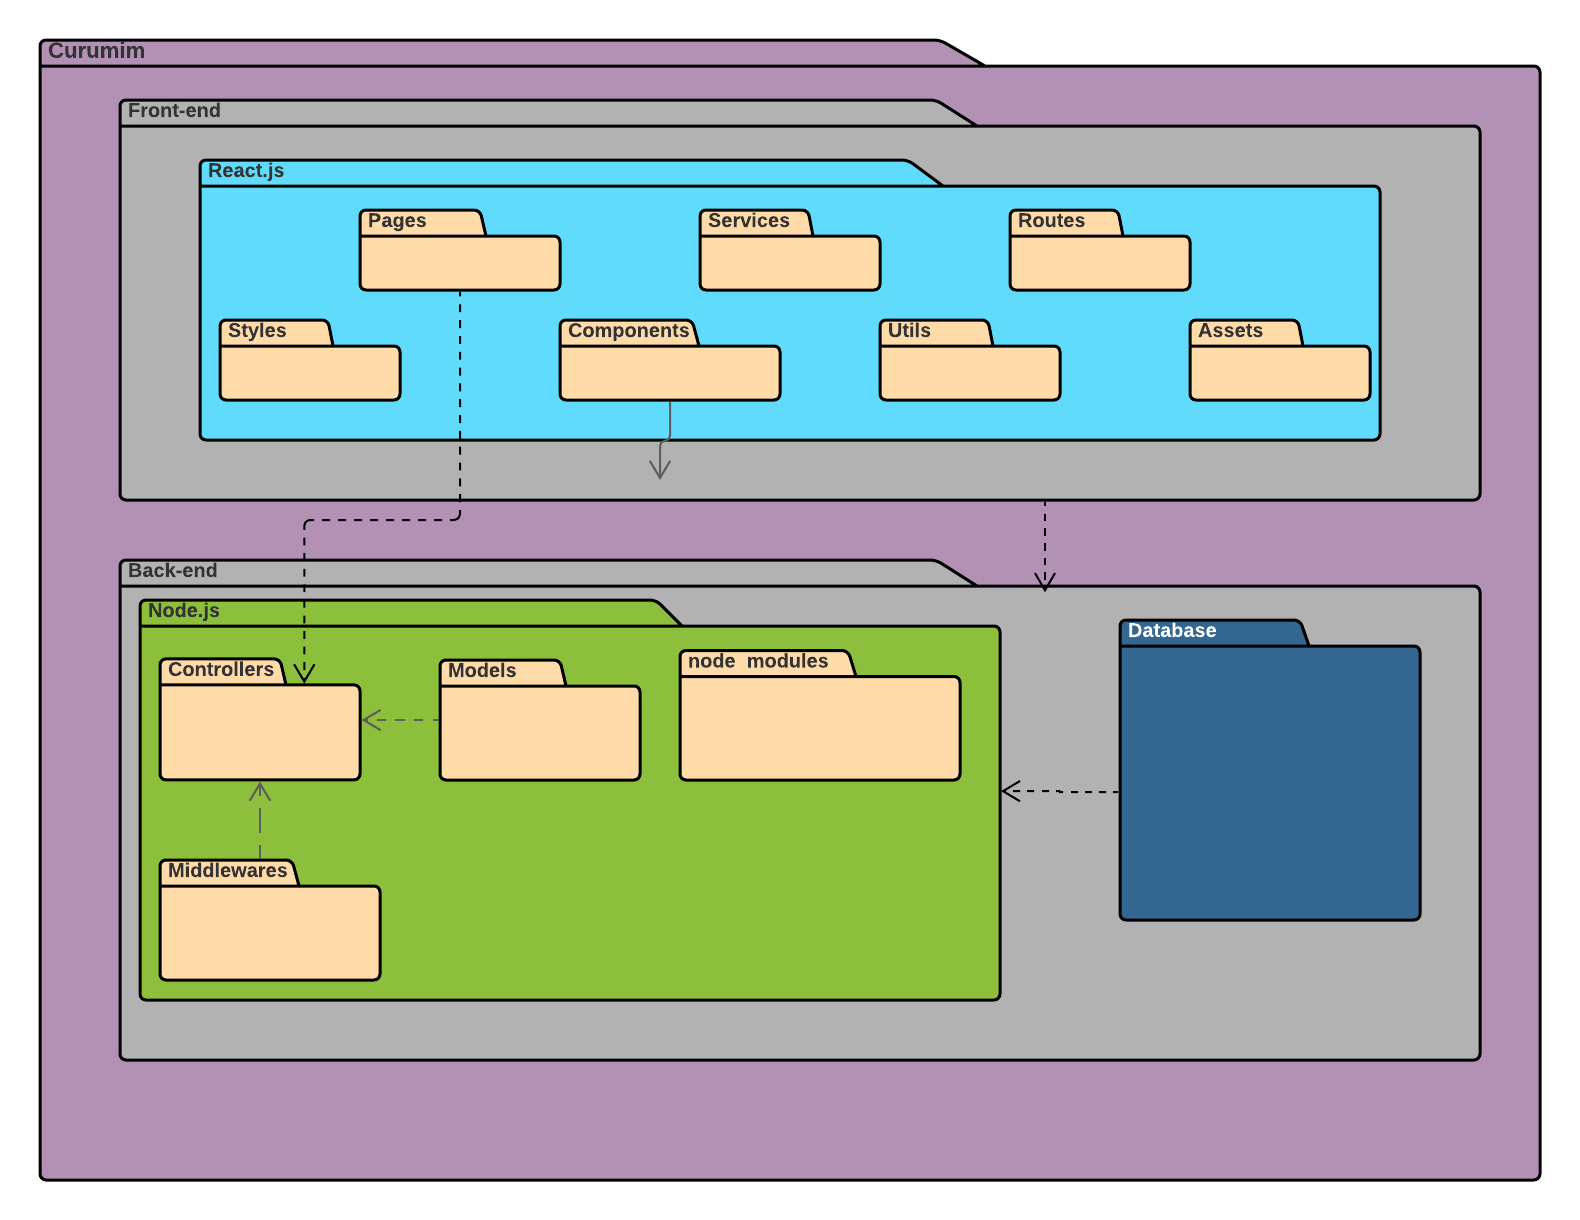
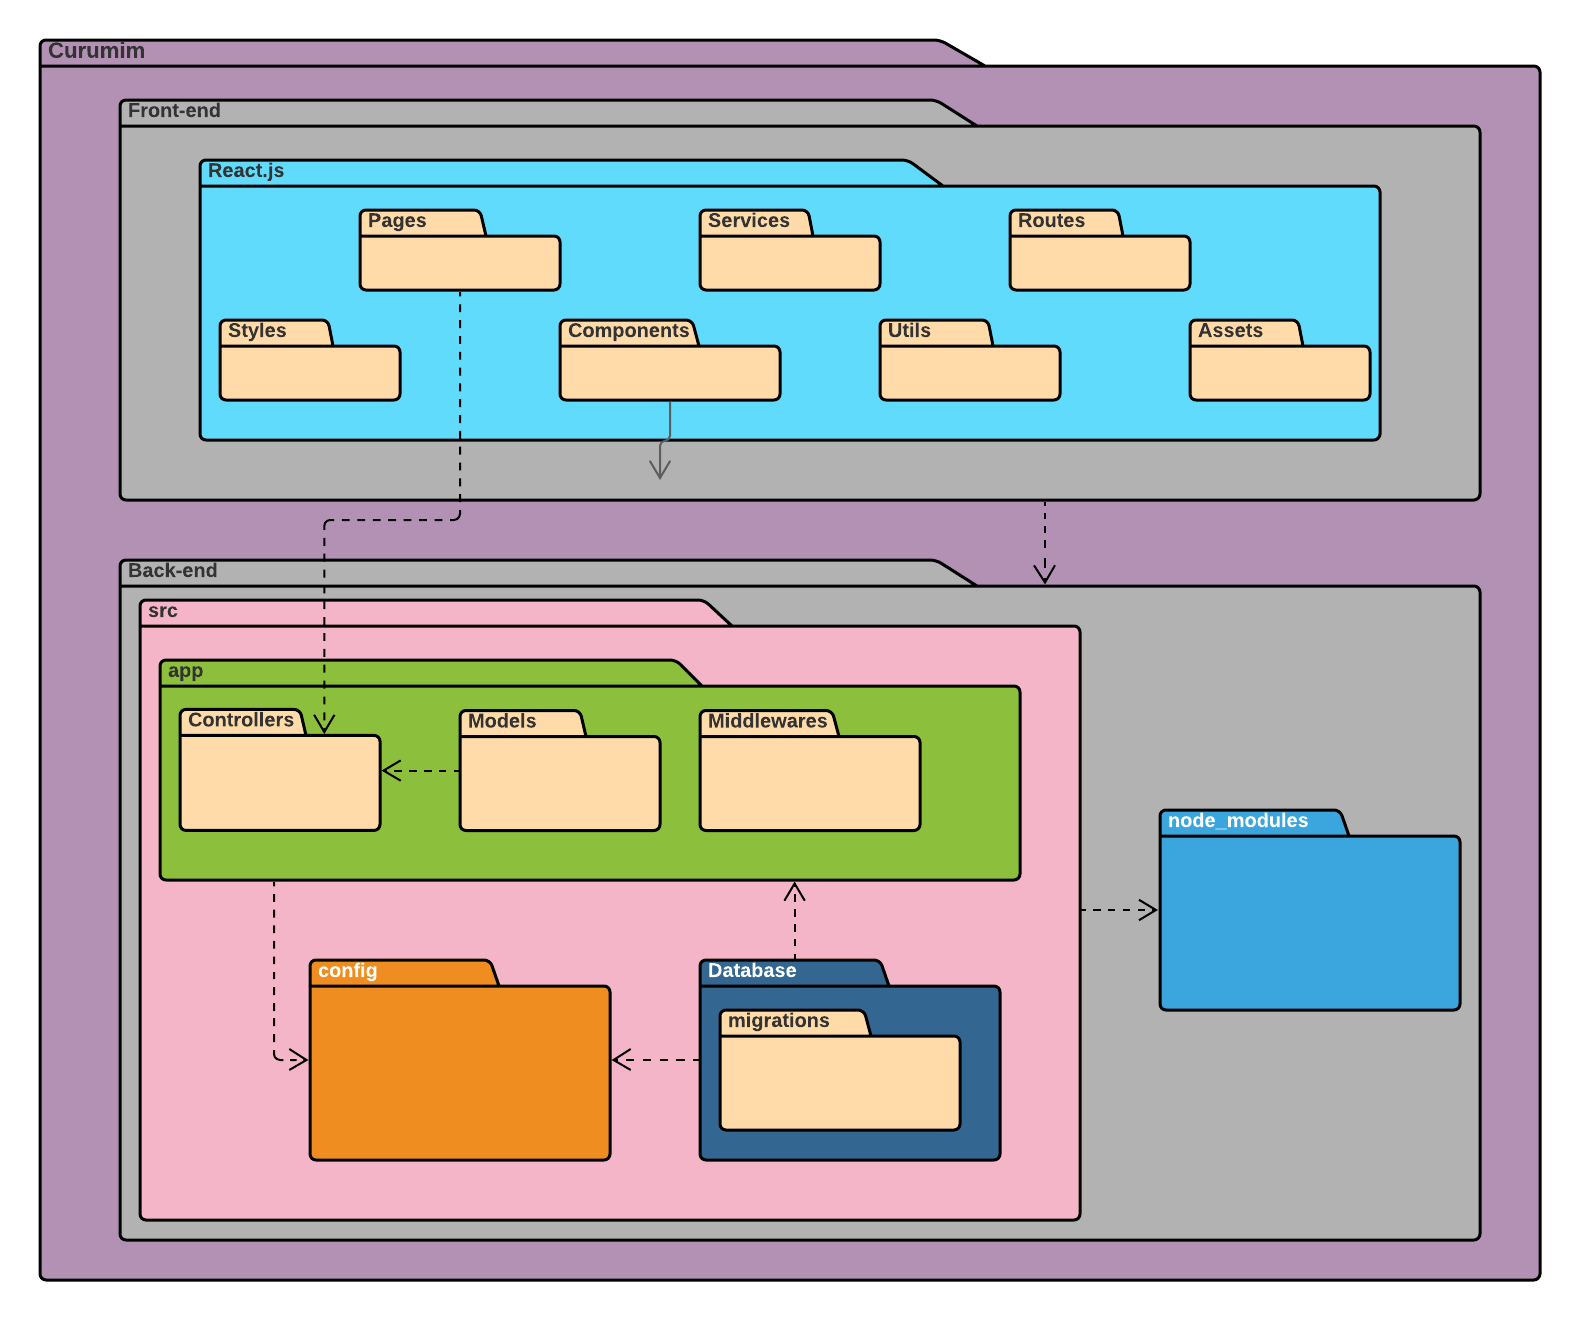
feat(#147) revisão diagrama de pacotes back-end

diff --git a/docs/modelagem/modelagem-estatica/diagrama-de-pacotes.md b/docs/modelagem/modelagem-estatica/diagrama-de-pacotes.md
@@ -14,7 +14,7 @@
 
 ![Diagrama de pacotes](../../assets/imagens/diagrama-de-pacotes/Diagrama-de-pacotes.png)
 
-<center>[Figura 1: Diagrama de pacotes 1.0](../../assets/imagens/diagrama-de-pacotes/Diagrama-de-pacotes.png)</center>
+<center>[Figura 2: Diagrama de pacotes 1.0](../../assets/imagens/diagrama-de-pacotes/Diagrama-de-pacotes.png)</center>
 
 
 ## Bibliografia
@@ -31,3 +31,4 @@ https://www.lucidchart.com/pages/pt/diagrama-de-pacotes-uml. Acesso em: 12/08/20
 |1.2| 21/08/2021 | Revisão por pares | Daniel Porto, Edson Soares|
 |1.3| 08/09/2021 | Atualizando pacotes do front-end no diagrama | João Pedro, Enzo Gabriel |
 |1.4| 13/09/2021 | Atualizando pacotes do back-end no diagrama e adição da v2 do diagrama ao documento | Mateus O. Patrício |
+|1.5| 19/09/2021 | Revisão do diagrama v2.0 do back-end e do documento | Mateus O. Patrício e Daniel Porto |
